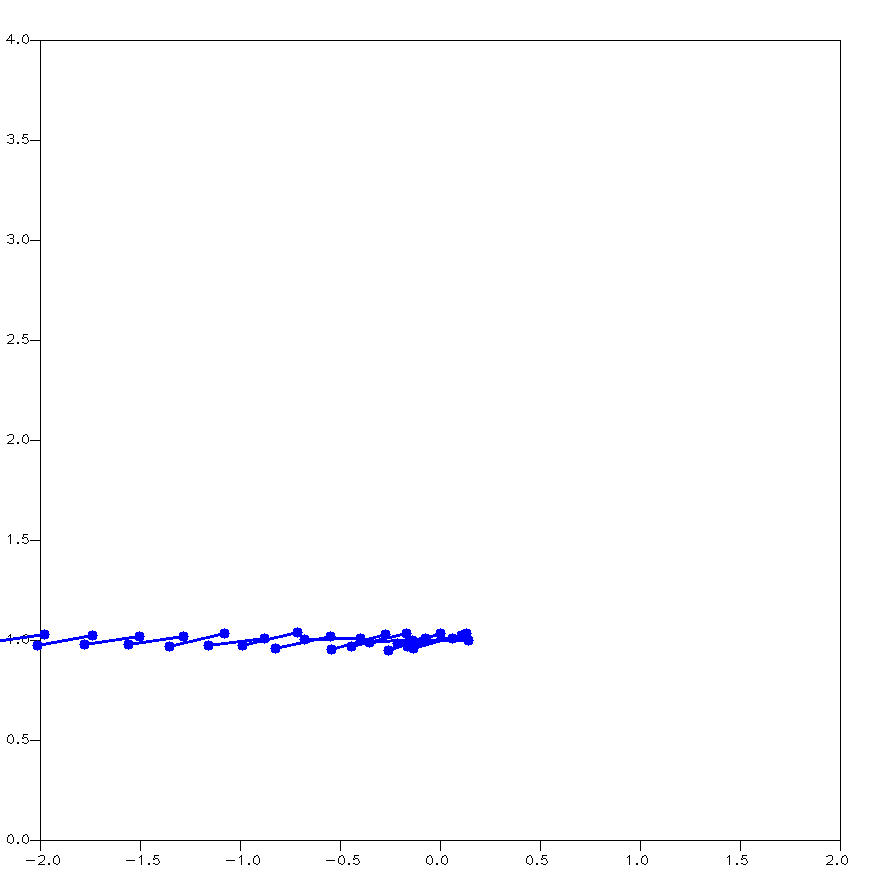
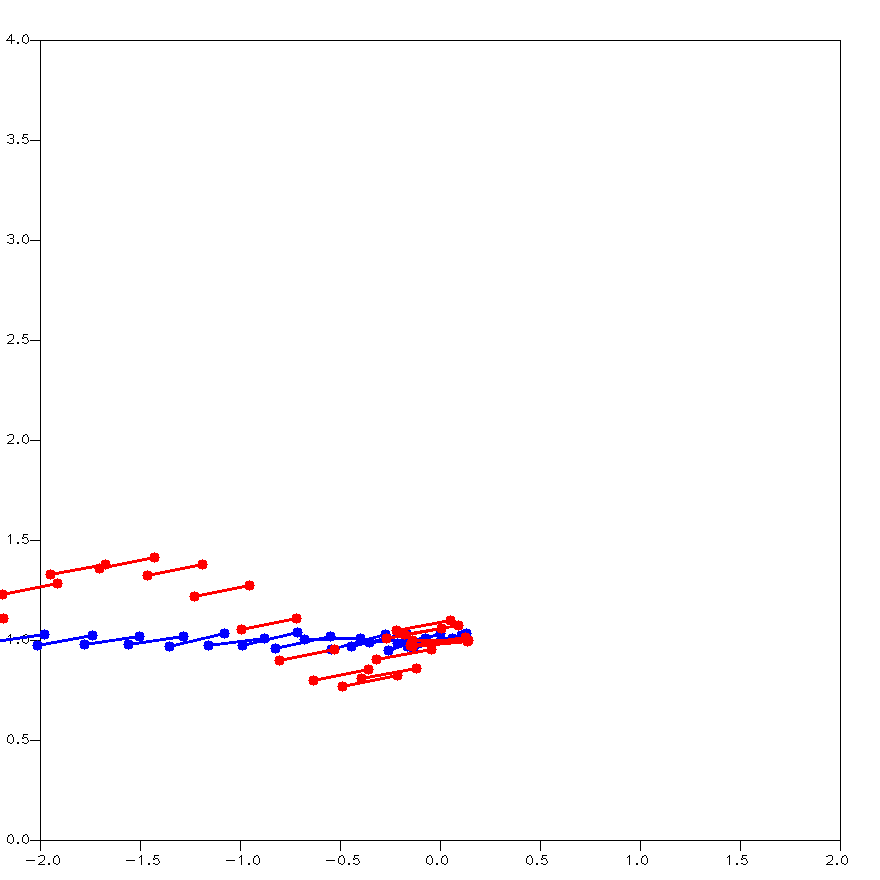
added multiple layer option in renderimages

diff --git a/Crazyflie_Simulation/solid/nodes.py b/Crazyflie_Simulation/solid/nodes.py
@@ -43,19 +43,39 @@ class MakePicture(eagerx.Node):
         #                                                                       [3, 3, 3], dtype="float32")
 
     def initialize(self):
-        self.modulus_prev = 1000
-        self.final_image = 0
-        self.save_render_image = True
+        #set render settings
+        self.save_render_image = False # enable or disable render from 2D plot
+        self.saveToPreviousRender = False # saves render on top of last render
+        self.renderColor = "red" # blue, red or black for now
         self.axis_to_plot = 'x' # 'x' or 'y' right now
-        self.height = 880
-        self.width = 880
+        self.height = 880 # set render height
+        self.width = 880 # set render width
         self.offset = 40  # offset of the picture from the sides
-        self.timestep = 0.1
-        self.sample_length = 2
+        self.timestep = 0.1 # set timestep for render
+        self.sample_length = 2 # set length of render
         self.length = 10
         self.text_height = 4
-        self.arm_length = 0.028 * 5
         self.font = cv2.FONT_HERSHEY_PLAIN
+
+        # set drone arm lengths
+        self.arm_length = 0.028 * 5
+
+        self.modulus_prev = 1000
+        if self.saveToPreviousRender == True:
+            self.final_image = cv2.imread(f'../Crazyflie_Simulation/solid/Rendering/Images/final_image.png')
+        else:
+            self.final_image = 0
+
+        #init render color
+        if self.renderColor == "blue":
+            self.renderColor = [255, 0, 0]
+        elif self.renderColor == "red":
+            self.renderColor = [0, 0, 255]
+        elif self.renderColor == "black":
+            self.renderColor = [0, 0, 0]
+        else:
+            self.renderColor = [255, 0, 0]
+
 
     @eagerx.register.states()
     def reset(self):
@@ -103,13 +123,13 @@ class MakePicture(eagerx.Node):
             x_correction = self.arm_length * np.cos(-pitch)
             # print(f'pitch is: {-pitch*180/np.pi} degrees')
             img = cv2.circle(img, (int((pos_x + x_correction) * 200) // 1 + self.width // 2,
-                                   self.height - int((pos_z + z_correction) * 200 // 1) - self.offset), 5, (255, 0, 0), -1)
+                                   self.height - int((pos_z + z_correction) * 200 // 1) - self.offset), 5, self.renderColor, -1)
             img = cv2.circle(img, (int((pos_x - x_correction) * 200) // 1 + self.width // 2,
-                                   self.height - int((pos_z - z_correction) * 200 // 1) - self.offset), 5, (255, 0, 0), -1)
+                                   self.height - int((pos_z - z_correction) * 200 // 1) - self.offset), 5, self.renderColor, -1)
             img = cv2.line(img, (int((pos_x + x_correction) * 200) // 1 + self.width // 2,
                                  self.height - int((pos_z + z_correction) * 200 // 1) - self.offset),
                            (int((pos_x - x_correction) * 200) // 1 + self.width // 2,
-                            self.height - int((pos_z - z_correction) * 200 // 1) - self.offset), (255, 0, 0), 2)
+                            self.height - int((pos_z - z_correction) * 200 // 1) - self.offset), self.renderColor, 2)
             return img
 
         def plot_y(img):

diff --git a/examples/crazyflie_constant_height.py b/examples/crazyflie_constant_height.py
@@ -202,7 +202,7 @@ if __name__ == "__main__":
 
             action = env.action_space.sample()
             action["desired_attitude"][0] = 0  # Roll
-            action["desired_attitude"][1] = 10  # Pitch
+            action["desired_attitude"][1] = -10  # Pitch
             action["desired_attitude"][2] = 0  # Yaw
             try:
                 action["desired_thrust"][0] = desired_thrust_pid.next_action(current=obs["position"][0][2],
